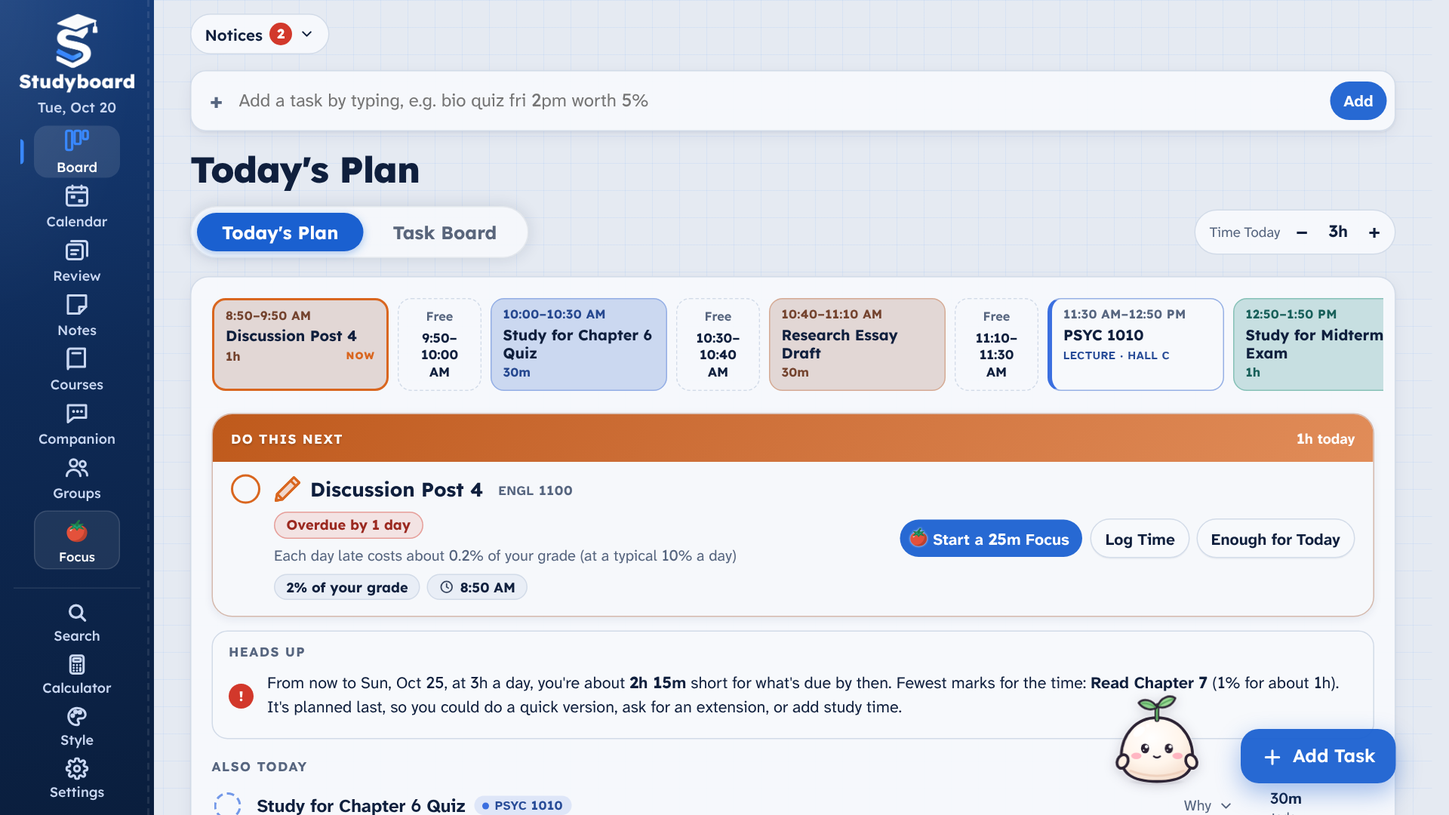
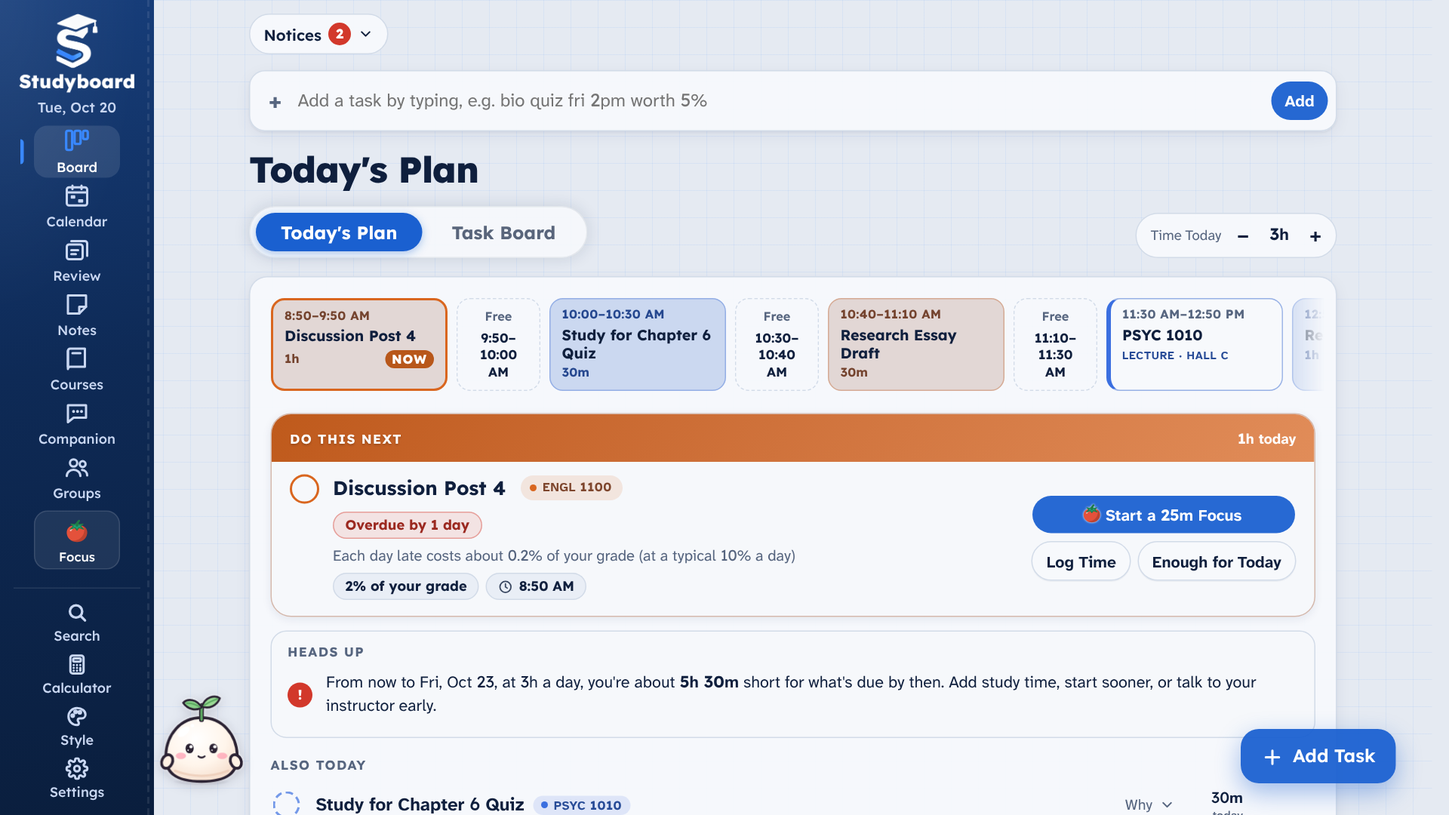
Store screenshots: refresh all, add Whiteboards, Concept Maps, Writing Studio and Calculator
The Microsoft Store takes at most 10 desktop screenshots, so the upload set is now the
banner and nine app screens (Today, Task Board, Timeline, Notes, Whiteboards, Concept
Maps, Writing Studio, Calculator, Grades), each in its own theme. Schedule, Crunch,
Courses and Companion are refreshed as alternates in screenshots/alternates/.

The capture script seeds an Anatomy whiteboard, a Cardiovascular System concept map
(its video box's picture drawn locally), an APA essay draft with citations to fix,
and a Nernst-equation result on the calculator. Only the local server is reached.
The midterm moves to Friday afternoon to match the banner. Screen names given on the
command line now pick screens instead of being read as the output folder.

Claude-Session: https://claude.ai/code/session_01GobWpRCJFTdqBS2MUP449u

diff --git a/tools/capture-store-screens.js b/tools/capture-store-screens.js
@@ -1,9 +1,12 @@
-// node tools/capture-store-screens.js [outDir]
-// Microsoft Store listing screenshots: a 3840x2160 banner (tools/store-banner.html), then nine app screens at 1920x1080,
-// each in its own theme, with the app tour's sample semester on Tuesday, Oct 20 (no AI key, nothing sent anywhere).
+// node tools/capture-store-screens.js [outDir] [names...]   e.g. node tools/capture-store-screens.js 05-whiteboards crunch 00-banner
+// Microsoft Store listing screenshots (the Store takes at most 10): a 3840x2160 banner (tools/store-banner.html), then nine app screens
+// at 1920x1080, each in its own theme, with the app tour's sample semester on Tuesday, Oct 20 (no AI key, nothing sent anywhere),
+// and four alternates (alternates/) to swap in for any of them.
 const http = require("http"), fs = require("fs"), path = require("path");
 const {chromium, executablePath} = require("../tests/pw");
-const root = path.join(__dirname, ".."), OUT = process.argv[2] || path.join(root, "build-resources/msstore-listing/screenshots");
+// an argument that names a screen (or 00-banner) picks it; any other is the folder to save into
+const ARGS = process.argv.slice(2), isName = a => a === "00-banner" || /^(\d\d-[a-z-]+|schedule|crunch|courses|companion)$/.test(a);
+const root = path.join(__dirname, ".."), OUT = ARGS.find(a => a && !isName(a)) || path.join(root, "build-resources/msstore-listing/screenshots");
 fs.mkdirSync(OUT, {recursive: true});
 const MIME = {".html": "text/html", ".js": "text/javascript", ".json": "application/json", ".png": "image/png", ".css": "text/css", ".svg": "image/svg+xml", ".woff2": "font/woff2", ".webp": "image/webp", ".jpg": "image/jpeg", ".webmanifest": "application/manifest+json"};
 const server = http.createServer((q, r) => { let p = decodeURIComponent(new URL(q.url, "http://x").pathname); if (p === "/") p = "/index.html"; if (p.endsWith("/")) p += "index.html"; const f = path.join(root, p);
@@ -25,7 +28,8 @@ const SEED = {v: 2,
     {id: "demo-eng", name: "Academic Writing", code: "ENGL 1100", color: "#D9661F", meetings: [{id: "m4", kind: "Seminar", days: [5], start: "10:00", end: "11:50", where: "Room 214"}]}],
   tasks: [
     T("t1", "Research Essay Draft", "eng", "Assignment", D(2), {time: "23:59", weight: 20, pct: 40, status: "doing", hours: 4, checklist: [{id: "a", text: "Outline", done: true}, {id: "b", text: "Find 5 sources", done: true}, {id: "c", text: "Write body", done: false}]}),
-    T("t2", "Midterm Exam", "bio", "Exam", D(5), {time: "09:30", weight: 30, hours: 6, location: "SW1 1020"}),
+    // the midterm on Friday afternoon (the banner says "Midterm Friday!")
+    T("t2", "Midterm Exam", "bio", "Exam", D(3), {time: "13:30", weight: 30, hours: 6, location: "SW1 1020"}),
     T("t3", "Chapter 6 Quiz", "psy", "Quiz", D(1), {time: "23:00", weight: 5, hours: 1}),
     T("t4", "Lab Report: Heart Rate", "bio", "Lab", D(8), {weight: 10, hours: 3}),
     T("t5", "Read Chapter 7", "psy", "Reading", D(3), {hours: 1}),
@@ -45,17 +49,147 @@ const SEED = {v: 2,
     {id: "demo-d2", name: "Memory and Learning", courseId: "demo-psy", cards: [{id: "k5", front: "Encoding", back: "Getting information into memory"}, {id: "k6", front: "Retrieval", back: "Getting it back out"}], quizzes: [], aiQuizzes: []}],
   files: [], settings: {capacity: 15, dailyHours: 3}, updated: 1};
 
-// file name, theme, light/dark, how to get there
+/* Whiteboard: an Anatomy board drawn as the app saves it (strokes packed like 99-whiteboard.js enc(), typed text as items) */
+const WB = (() => {
+  const AL = "ABCDEFGHIJKLMNOPQRSTUVWXYZabcdefghijklmnopqrstuvwxyz0123456789-_";
+  const enc = pts => { let s = "", px = 0, py = 0; const put = v => { v = v < 0 ? -v * 2 - 1 : v * 2; while (v >= 32) { s += AL[32 + (v % 32)]; v = Math.floor(v / 32); } s += AL[v]; };
+    pts.forEach(([x, y]) => { const X = Math.round(x * 4), Y = Math.round(y * 4); put(X - px); put(Y - py); px = X; py = Y; }); return s; };
+  // a steady hand: a slow wobble, the same every run
+  let seed = 7; const rnd = () => (seed = (seed * 16807) % 2147483647) / 2147483647;
+  const wob = (pts, amt) => { const ph = rnd() * 6, f = 0.004 + rnd() * 0.004; let L = 0; return pts.map((p, i) => { if (i) L += Math.hypot(p[0] - pts[i - 1][0], p[1] - pts[i - 1][1]); return [p[0] + Math.sin(L * f + ph) * amt, p[1] + Math.cos(L * f * 1.3 + ph) * amt]; }); };
+  const line = (a, b, n) => { const o = []; n = n || Math.max(2, Math.ceil(Math.hypot(b[0] - a[0], b[1] - a[1]) / 14)); for (let i = 0; i <= n; i++) o.push([a[0] + (b[0] - a[0]) * i / n, a[1] + (b[1] - a[1]) * i / n]); return o; };
+  const quad = (a, c, b) => { const o = []; for (let i = 0; i <= 40; i++) { const t = i / 40, u = 1 - t; o.push([u * u * a[0] + 2 * u * t * c[0] + t * t * b[0], u * u * a[1] + 2 * u * t * c[1] + t * t * b[1]]); } return o; };
+  const S = [], I = []; let n = 0;
+  const pen = (c, w, pts, amt) => S.push({id: "wbs" + (++n), t: "pen", c, w: w * 10, d: enc(wob(pts, amt == null ? 3 : amt)), at: now});
+  const hl = (c, w, pts) => S.push({id: "wbs" + (++n), t: "hl", c, w: w * 10, d: enc(wob(pts, 2)), at: now});
+  const text = (x, y, s, c, f, ff) => I.push({id: "wbt" + (++n), k: "t", x, y, s, c, f, ff: ff || "neat", at: now});
+  // an arrow: a gentle curve, then its head drawn as one more stroke
+  const arrow = (c, w, a, b, bend) => { const m = [(a[0] + b[0]) / 2 + (bend || 0) * (b[1] - a[1]) / 4, (a[1] + b[1]) / 2 - (bend || 0) * (b[0] - a[0]) / 4], body = quad(a, m, b);
+    pen(c, w, body, 2); const p = body[body.length - 4], an = Math.atan2(b[1] - p[1], b[0] - p[0]), h = 46;
+    pen(c, w, [[b[0] - h * Math.cos(an - 0.5), b[1] - h * Math.sin(an - 0.5)], b, [b[0] - h * Math.cos(an + 0.5), b[1] - h * Math.sin(an + 0.5)]], 0); };
+  // the heart: the classic heart curve, tipped like the real one, with its septum and the line between atria and ventricles
+  const cx = 1300, cy = 1300, k = 26, tilt = -0.2;
+  const rot = ([x, y]) => [cx + x * Math.cos(tilt) - y * Math.sin(tilt), cy + x * Math.sin(tilt) + y * Math.cos(tilt)];
+  const heart = t => [16 * Math.pow(Math.sin(t), 3) * k, -(13 * Math.cos(t) - 5 * Math.cos(2 * t) - 2 * Math.cos(3 * t) - Math.cos(4 * t)) * k];
+  const outline = []; for (let i = 0; i <= 160; i++) outline.push(rot(heart(i / 160 * Math.PI * 2)));
+  pen("red", 12, outline, 4);
+  pen("red", 9, quad(rot([0, -5 * k]), rot([2 * k, 6 * k]), rot([0, 16.2 * k])), 3);
+  const across = y => { const pts = []; for (let i = 0; i <= 160; i++) pts.push(heart(i / 160 * Math.PI * 2));
+    const xs = []; pts.forEach((p, i) => { const q = pts[(i + 1) % pts.length]; if ((p[1] - y) * (q[1] - y) <= 0 && p[1] !== q[1]) xs.push(p[0] + (q[0] - p[0]) * (y - p[1]) / (q[1] - p[1])); }); return [Math.min(...xs), Math.max(...xs)]; };
+  const [l0, r0] = across(1 * k); pen("red", 9, quad(rot([l0 + 6, 1 * k]), rot([0, 3 * k]), rot([r0 - 6, 1 * k])), 2);
+  // chambers
+  text(cx - 300, cy - 180, "RA", "blue", 110, "marker"); text(cx + 90, cy - 290, "LA", "red", 110, "marker");
+  text(cx - 210, cy + 90, "RV", "blue", 110, "marker"); text(cx + 110, cy + 10, "LV", "red", 110, "marker");
+  // the lungs, the body and the vessels between them
+  pen("green", 10, (() => { const o = []; for (let i = 0; i <= 64; i++) { const a = i / 64 * Math.PI * 2; o.push([cx - 30 + Math.cos(a) * 280, cy - 600 + Math.sin(a) * 105]); } return o; })(), 4);
+  text(cx - 160, cy - 660, "LUNGS", "green", 92, "marker");
+  arrow("blue", 10, [cx - 330, cy - 300], [cx - 230, cy - 500], 0.25); text(cx - 720, cy - 540, "pulmonary\nartery", "blue", 72, "quick");
+  arrow("red", 10, [cx + 170, cy - 500], [cx + 210, cy - 330], 0.3); text(cx + 290, cy - 560, "pulmonary\nveins", "red", 72, "quick");
+  arrow("blue", 10, [cx - 840, cy - 120], [cx - 470, cy - 110], -0.15); text(cx - 860, cy - 250, "vena cava", "blue", 72, "quick");
+  text(cx - 860, cy - 60, "(from the body)", "ink", 54, "quick");
+  arrow("red", 10, [cx + 420, cy + 10], [cx + 760, cy - 110], 0.2); text(cx + 520, cy - 230, "aorta", "red", 72, "quick"); text(cx + 560, cy + 60, "to the body", "ink", 54, "quick");
+  // title, underlined
+  text(cx - 860, cy - 950, "The Heart: How Blood Flows", "ink", 124, "marker");
+  pen("orange", 11, line([cx - 850, cy - 775], [cx + 1020, cy - 790]), 3);
+  // the valves, in a box
+  const vx = cx + 980, vy = cy - 600;
+  text(vx, vy, "4 valves, in order", "purple", 80, "hand");
+  text(vx, vy + 120, "1. Tricuspid   RA → RV\n2. Pulmonary  RV → lungs\n3. Mitral         LA → LV\n4. Aortic         LV → body", "ink", 62, "neat");
+  pen("purple", 8, [[vx - 40, vy - 30], [vx + 760, vy - 36], [vx + 766, vy + 470], [vx - 34, vy + 476], [vx - 40, vy - 30]], 2);
+  // a highlighted note and a key
+  text(vx - 20, vy + 600, "LV wall is the thickest:\nit pumps to the whole body!", "ink", 66, "hand");
+  hl("yellow", 56, line([vx - 20, vy + 652], [vx + 620, vy + 652]));
+  hl("yellow", 56, line([vx - 20, vy + 738], [vx + 700, vy + 738]));
+  pen("blue", 14, line([vx, vy + 900], [vx + 130, vy + 900]), 1); text(vx + 160, vy + 860, "low O₂", "ink", 62, "neat");
+  pen("red", 14, line([vx + 400, vy + 900], [vx + 530, vy + 900]), 1); text(vx + 560, vy + 860, "high O₂", "ink", 62, "neat");
+  // a reminder in a box, with a star
+  text(cx - 840, cy + 300, "Midterm Friday!\nRA → RV → lungs\n→ LA → LV → aorta", "orange", 66, "fun");
+  pen("orange", 8, [[cx - 880, cy + 270], [cx - 270, cy + 264], [cx - 266, cy + 560], [cx - 876, cy + 566], [cx - 880, cy + 270]], 2);
+  const star = []; for (let i = 0; i <= 10; i++) { const a = -Math.PI / 2 + i * Math.PI / 5, r = i % 2 ? 28 : 66; star.push([cx - 170 + Math.cos(a) * r, cy + 330 + Math.sin(a) * r]); } pen("orange", 8, star, 1);
+  return {wbInk: S, wbItems: I};
+})();
+
+/* Writing Studio: the research essay in APA, with a draft that has a few things to fix */
+const WS_SRC = [
+  {id: "s1", type: "book", title: "Why we sleep: Unlocking the power of sleep and dreams", author: [{family: "Walker", given: "Matthew"}], issued: {"date-parts": [[2017]]}, publisher: "Scribner"},
+  {id: "s2", type: "article-journal", title: "Sleep deprivation in adolescents and adults: Changes in the sleep and circadian rhythms", author: [{family: "Carskadon", given: "Mary A."}], issued: {"date-parts": [[2011]]}, "container-title": "Pediatric Clinics of North America", volume: "58", issue: "3", page: "637–647", DOI: "10.1016/j.pcl.2011.03.003"},
+  {id: "s3", type: "article-journal", title: "Screen time and sleep among school-aged children and adolescents: A systematic literature review", author: [{family: "Hale", given: "Lauren"}, {family: "Guan", given: "Stanford"}], issued: {"date-parts": [[2015]]}, "container-title": "Sleep Medicine Reviews", volume: "21", page: "50–58", DOI: "10.1016/j.smrv.2014.07.007"},
+  {id: "s4", type: "article-journal", title: "The association between social media use and sleep disturbance among young adults", author: [{family: "Levenson", given: "Jessica C."}, {family: "Shensa", given: "Ariel"}, {family: "Sidani", given: "Jaime E."}, {family: "Colditz", given: "Jason B."}, {family: "Primack", given: "Brian A."}], issued: {"date-parts": [[2016]]}, "container-title": "Preventive Medicine", volume: "85", page: "36–41", DOI: "10.1016/j.ypmed.2016.01.001"},
+  {id: "s5", type: "article-journal", title: "Evening use of light-emitting eReaders negatively affects sleep, circadian timing, and next-morning alertness", author: [{family: "Chang", given: "Anne-Marie"}, {family: "Aeschbach", given: "Daniel"}, {family: "Duffy", given: "Jeanne F."}, {family: "Czeisler", given: "Charles A."}], issued: {"date-parts": [[2015]]}, "container-title": "Proceedings of the National Academy of Sciences", volume: "112", issue: "4", page: "1232–1237", DOI: "10.1073/pnas.1418490112"}];
+const WS_DRAFT = `Screens, Sleep and the First-Year Student
+
+Most first-year students go to bed with a phone in hand, and their sleep pays for it. Teenagers' body clocks already shift later in adolescence (Carskadon, 2011), so a late night of scrolling pushes bedtime even further back. A review of 67 studies found that screen time was linked to later bedtimes and shorter sleep in 90% of them (Hale & Guan 2015).
+
+The light itself matters. Reading on a tablet before bed delayed melatonin and left readers less alert the next morning (Chang et al., 2015, p. 1233). Young adults who checked social media most often were also the most likely to report disturbed sleep (Levenson et al, 2016). Walker (2017) argues that "sleep is the single most effective thing we can do to reset our brain and body health each day" (p. 107).
+
+Students who protect their sleep do better in class (Hershner & Chervin, 2014). Hale and Guan (2015) suggest a simple rule: screens off an hour before bed.
+
+References
+Carskadon, M. A. (2011). Sleep deprivation in adolescents and adults: Changes in the sleep and circadian rhythms. Pediatric Clinics of North America, 58(3), 637–647. https://doi.org/10.1016/j.pcl.2011.03.003
+Chang, A.-M., Aeschbach, D., Duffy, J. F., & Czeisler, C. A. (2015). Evening use of light-emitting eReaders negatively affects sleep, circadian timing, and next-morning alertness. Proceedings of the National Academy of Sciences, 112(4), 1232–1237. https://doi.org/10.1073/pnas.1418490112
+Hale, L., & Guan, S. (2015). Screen time and sleep among school-aged children and adolescents: A systematic literature review. Sleep Medicine Reviews, 21, 50–58. https://doi.org/10.1016/j.smrv.2014.07.007
+Hershner, S. D., & Chervin, R. D. (2014). Causes and consequences of sleepiness among college students. Nature and Science of Sleep, 6, 73–84. https://doi.org/10.2147/NSS.S62907
+Levenson, J. C., Shensa, A., Sidani, J. E., Colditz, J. B., & Primack, B. A. (2016). The association between social media use and sleep disturbance among young adults. Preventive Medicine, 85, 36–41. https://doi.org/10.1016/j.ypmed.2016.01.001
+Walker, M. (2017). Why we sleep: Unlocking the power of sleep and dreams. Scribner.`;
+
+// what doi.org answers for the one entry in the draft's list that isn't a source yet (answered here, not fetched)
+const DOI_CSL = {DOI: "10.2147/NSS.S62907", type: "journal-article", title: "Causes and consequences of sleepiness among college students", "container-title": "Nature and Science of Sleep", volume: "6", page: "73-84", author: [{given: "Sara D.", family: "Hershner"}, {given: "Ronald D.", family: "Chervin"}], issued: {"date-parts": [[2014]]}};
+
+/* Concept map: the cardiovascular system for Anatomy, with styled boxes and a video box */
+// the blood's loop around the outside (right heart, lungs, left heart, body), the heart in the middle
+const CM_POS = {root: [0, -150], "idea:heart": [0, 40], "idea:valves": [0, 210], "idea:ra": [-640, 60], "idea:rv": [-500, -220], "idea:lungs": [0, -360], "idea:la": [500, -220], "idea:lv": [640, 60],
+  "idea:aorta": [500, 300], "idea:arteries": [190, 400], "idea:caps": [-190, 400], "idea:veins": [-500, 300], "idea:co": [960, -160], "idea:vid": [960, 250]};
+const CM_MAP = {id: "cm-cv", name: "Cardiovascular System", auto: false, created: now - 5 * 864e5, at: now - 3600e3, pack: "med",
+  add: [{id: "heart", label: "Heart"}, {id: "ra", label: "Right atrium"}, {id: "rv", label: "Right ventricle"}, {id: "lungs", label: "Lungs"}, {id: "la", label: "Left atrium"}, {id: "lv", label: "Left ventricle"},
+    {id: "aorta", label: "Aorta"}, {id: "arteries", label: "Arteries"}, {id: "caps", label: "Capillaries"}, {id: "veins", label: "Veins"}, {id: "valves", label: "4 valves"}, {id: "co", label: "Cardiac output = HR × SV"},
+    {id: "vid", label: "", emb: {p: "youtube", u: "https://www.youtube.com/watch?v=sbStoreDemo1", e: "https://www.youtube-nocookie.com/embed/sbStoreDemo1?rel=0", th: "https://i.ytimg.com/vi/sbStoreDemo1/hqdefault.jpg"}}],
+  links: [{a: "root", b: "idea:heart", label: "pumped by"}, {a: "idea:heart", b: "idea:valves", label: "keeps blood one-way with"}, {a: "idea:ra", b: "idea:rv", label: "tricuspid valve"}, {a: "idea:rv", b: "idea:lungs", label: "pulmonary artery"},
+    {a: "idea:lungs", b: "idea:la", label: "pulmonary veins"}, {a: "idea:la", b: "idea:lv", label: "mitral valve"}, {a: "idea:lv", b: "idea:aorta", label: "aortic valve"}, {a: "idea:aorta", b: "idea:arteries", label: "branches into"},
+    {a: "idea:arteries", b: "idea:caps", label: "exchange O₂"}, {a: "idea:caps", b: "idea:veins", label: "collect into"}, {a: "idea:veins", b: "idea:ra", label: "vena cava"},
+    {a: "idea:lv", b: "idea:co", label: "sets"}, {a: "idea:vid", b: "idea:lv", label: "watch"}],
+  pos: Object.fromEntries(Object.entries(CM_POS).map(([k, [x, y]]) => [k, [Math.round(x * 0.8), Math.round(y * 0.78)]])),
+  styles: {root: {shape: "pill", color: "#C8102E", scale: 1.3}, "idea:heart": {shape: "circle", color: "#C8102E", scale: 1.25}, "idea:lungs": {shape: "cloud", color: "#2E8A52"}, "idea:co": {shape: "rounded", color: "#7A3CC8"}, "idea:valves": {shape: "hexagon", color: "#E57A10"},
+    "idea:ra": {color: "#1D5BD6"}, "idea:rv": {color: "#1D5BD6"}, "idea:veins": {color: "#1D5BD6"}, "idea:la": {color: "#C8102E"}, "idea:lv": {color: "#C8102E"}, "idea:aorta": {color: "#C8102E"}, "idea:arteries": {color: "#C8102E"}}};
+
+/* Each screen: [file, theme, light/dark, how to get there, extra (seed: change the semester, setup: after getting there, dir: "alternates")]
+   The Microsoft Store takes at most 10 desktop screenshots: the banner and the nine below; the four after them are alternates. */
 const SHOTS = [
   ["01-today", "classic", "light", ["Board", "Today's Plan"]],
   ["02-taskboard", "sakura", "light", ["Board", "Task Board"]],
   ["03-timeline", "galaxy", "dark", ["Calendar", "Due Dates", "Timeline", "Term"]],
-  ["04-schedule", "ocean", "light", ["Calendar", "Schedule"]],
-  ["05-crunch", "arctic", "dark", ["Calendar", "Crunch"]],
-  ["06-notes", "spring", "light", ["Notes"]],
-  ["07-grades", "arcade", "dark", ["Courses", "Grades"]],
-  ["08-courses", "classic", "light", ["Courses", "Courses"]],
-  ["09-companion", "forest", "light", ["Companion"]]];
+  ["04-notes", "spring", "light", ["Notes", "Notes"], {seed: s => s.notes.push(
+    {id: "demo-n4", text: "Ch. 7: encoding → storage → retrieval", created: now - 3000, courseId: "demo-psy", color: "green", x: 40, y: 70, rot: 2, pin: "tape", stickers: [{k: "brain", x: 82, y: 78, r: -8}]},
+    {id: "demo-n5", text: "Lab Thursday 1:30: lab coat and goggles", created: now - 4000, courseId: "demo-bio", color: "orange", x: 150, y: 330, rot: -3, pin: "pin", stickers: [{k: "flask", x: 84, y: 78, r: 10}]})}],
+  ["05-whiteboards", "candy", "light", ["Notes", "Whiteboard"], {
+    seed: s => { s.notes.push(Object.assign({id: "demo-wb1", text: "Heart: Blood Flow", wb: {v: 1, tpl: "blank", pa: 1.6}, courseId: "demo-bio", board: "", created: now - 2 * 864e5, updated: now - 3600e3}, WB)); },
+    setup: async page => { await page.click('[data-wb="fit"]'); await page.waitForTimeout(600);
+      // move the drawing down a little, clear of the zoom buttons (with the Move tool, as a person would), then back to the marker
+      await page.click('.wb-tray [data-wb="tool"][data-id="hand"]'); const r = await page.locator(".wb-frame").boundingBox();
+      await page.mouse.move(r.x + r.width / 2, r.y + r.height / 2); await page.mouse.down(); await page.mouse.move(r.x + r.width / 2, r.y + r.height / 2 + 22, {steps: 8}); await page.mouse.up();
+      await page.click('.wb-tray [data-wb="tool"][data-id="pen"]'); await page.mouse.move(1270, 700); await page.evaluate(() => document.activeElement && document.activeElement.blur()); await page.waitForTimeout(400); }}],
+  ["06-concept-maps", "neon", "dark", ["Review"], {
+    seed: s => { s.courses[0].maps = [CM_MAP]; },
+    setup: async page => { await page.click('[data-act="rv-view"][data-id="maps"]'); await page.waitForTimeout(800);
+      await page.evaluate(() => { const b = document.createElement("button"); b.dataset.act = "cm-open"; b.dataset.id = "demo-bio"; b.dataset.kind = "course"; b.dataset.map = "cm-cv"; b.style.display = "none"; document.body.appendChild(b); b.click(); b.remove(); });
+      await page.waitForSelector('.cm-node[data-n="idea:vid"] image.cm-emb-th', {timeout: 10000}).catch(() => console.warn("  the video box has no picture")); await page.waitForTimeout(1200); }}],
+  ["07-writing-studio", "reading", "light", ["Board", "Task Board"], {
+    seed: s => { const t = s.tasks.find(x => x.id === "demo-t1"); t.title = "Research Essay: Screens and Sleep"; t.notes = "APA 7th edition. 1,200–1,500 words, at least 5 peer-reviewed sources.";
+      t.ws = {style: "apa", src: WS_SRC, q: [], out: [], draft: {t: WS_DRAFT, from: "Pasted", at: now - 3 * 3600e3}}; },
+    setup: async page => { await page.evaluate(() => { const b = document.createElement("button"); b.dataset.act = "ws-open"; b.dataset.id = "demo-t1"; b.dataset.wsTo = "check"; b.style.display = "none"; document.body.appendChild(b); b.click(); b.remove(); });
+      await page.waitForSelector("#dlg[open] .ws-tab", {timeout: 15000}); await page.waitForTimeout(1500);
+      await page.locator("#dlg[open] button", {hasText: /^Check( Again)?$/}).last().click(); await page.waitForSelector("#dlg[open] .ws-diff", {timeout: 15000}).catch(() => console.warn("  the check didn't run"));
+      await page.waitForTimeout(2500);
+      // start the view at what the check just did (the draft's card is above it)
+      await page.evaluate(() => { const m = [...document.querySelectorAll("#dlg[open] .ws-body *")].find(e => /^Added \d+ source/.test(e.textContent.trim()) && e.children.length < 3); if (m) { m.scrollIntoView({block: "start"}); } });
+      await page.waitForTimeout(500); }, zoom: 1.25}],
+  ["08-calculator", "cafe", "light", ["Board", "Today's Plan"], {
+    // the resting potential of a nerve cell from the Nernst equation (K+ 5 mM outside, 140 mM inside), with the calculator moved to the right
+    setup: async page => { await page.evaluate(async () => { SBCALC.open(); SBCALC.put("61.5*log(5/140)"); await SBCALC.press("eq"); const w = SBCALC.win(); w.style.left = (innerWidth - w.offsetWidth - 36) + "px"; w.style.top = (innerHeight - w.offsetHeight - 20) + "px"; }); await page.waitForTimeout(800); }}],
+  ["09-grades", "arcade", "dark", ["Courses", "Grades"]],
+  ["schedule", "ocean", "light", ["Calendar", "Schedule"], {dir: "alternates"}],
+  ["crunch", "arctic", "dark", ["Calendar", "Crunch"], {dir: "alternates"}],
+  ["courses", "sunset", "light", ["Courses", "Courses"], {dir: "alternates"}],
+  ["companion", "forest", "light", ["Companion", "Wardrobe"], {dir: "alternates", setup: async page => { await page.locator("button", {hasText: "Cozy Scarf"}).first().click().catch(() => console.warn("  no scarf")); await page.waitForTimeout(800); }}]];
 
 const dismiss = async page => {
   for (let i = 0; i < 4; i++) {
@@ -82,10 +216,23 @@ const go = async (page, labels) => {
   }
 };
 
-async function shoot(browser, [name, skin, scheme, path_]) {
-  const ctx = await browser.newContext({viewport: {width: 1280, height: 720}, colorScheme: scheme, deviceScaleFactor: 1.5, serviceWorkers: "block"});
+// a picture for the video box (the map's YouTube link is a made-up one, and nothing is fetched from YouTube: its oEmbed answer and thumbnail are drawn here)
+const VIDEO_PIC = `<svg xmlns="http://www.w3.org/2000/svg" width="480" height="360" viewBox="0 0 480 360"><defs><linearGradient id="g" x1="0" y1="0" x2="1" y2="1"><stop offset="0" stop-color="#FFE9EC"/><stop offset="1" stop-color="#FFC9D1"/></linearGradient></defs>
+  <rect width="480" height="360" fill="url(#g)"/><path d="M240 300C150 240 90 190 90 130c0-40 30-70 70-70 34 0 58 20 80 48 22-28 46-48 80-48 40 0 70 30 70 70 0 60-60 110-150 170z" fill="#E0394E"/>
+  <path d="M120 170h70l20-44 30 92 24-62 16 14h80" fill="none" stroke="#fff" stroke-width="10" stroke-linecap="round" stroke-linejoin="round"/></svg>`;
+async function shoot(browser, [name, skin, scheme, path_, o]) {
+  o = o || {};
+  // 1920x1080: 1280x720 at 1.5x, or (zoom: 1.25) 1536x864 at 1.25x for a screen with more to show
+  const z = o.zoom || 1.5;
+  const ctx = await browser.newContext({viewport: {width: Math.round(1920 / z), height: Math.round(1080 / z)}, colorScheme: scheme, deviceScaleFactor: z, serviceWorkers: "block"});
   await ctx.clock.setFixedTime(NOW);
+  // nothing leaves the machine: only the local server answers, and the video box's oEmbed and picture are drawn here
+  await ctx.route(/youtube\.com\/oembed/, r => r.fulfill({status: 200, contentType: "application/json", headers: {"access-control-allow-origin": "*"}, body: JSON.stringify({title: "Blood Flow in 3 Minutes", thumbnail_url: "https://i.ytimg.com/vi/sbStoreDemo1/hqdefault.jpg"})}));
+  await ctx.route(/doi\.org\/10\.2147/, r => r.fulfill({status: 200, contentType: "application/json", headers: {"access-control-allow-origin": "*"}, body: JSON.stringify(DOI_CSL)}));
+  await ctx.route(/i\.ytimg\.com/, r => r.fulfill({status: 200, contentType: "image/svg+xml", body: VIDEO_PIC}));
+  await ctx.route(u => !/^(http:\/\/localhost|data:|blob:)/.test(String(u)) && !/youtube\.com\/oembed|i\.ytimg\.com|doi\.org\/10\.2147/.test(String(u)), r => r.abort());
   const seed = JSON.parse(JSON.stringify(SEED)); seed.settings.style = {skin}; seed.settings.owned = ["skin:" + skin];
+  if (o.seed) o.seed(seed);
   await ctx.addInitScript(([seed, scheme]) => { try { if (!localStorage.getItem("coursework:v2")) {
     localStorage.setItem("coursework:v2", JSON.stringify(seed)); localStorage.setItem("studioso:sb", '"local"'); localStorage.setItem("sb:onboarded", "1"); localStorage.setItem("studyboard:tour", "1"); localStorage.setItem("studioso:theme", scheme); localStorage.setItem("studyboard:tips", "off"); } } catch (e) {} }, [seed, scheme]);
   const page = await ctx.newPage();
@@ -94,9 +241,12 @@ async function shoot(browser, [name, skin, scheme, path_]) {
   await dismiss(page);
   await go(page, path_);
   await dismiss(page);
-  await page.evaluate(() => document.querySelectorAll(".cp-bubble.on").forEach(x => x.classList.remove("on")));
+  if (o.setup) await o.setup(page);
+  await page.evaluate(() => { document.querySelectorAll(".cp-bubble.on").forEach(x => x.classList.remove("on")); const a = document.activeElement; if (a && a !== document.body && !a.closest("dialog")) a.blur(); });
+  await page.evaluate(() => document.fonts.ready);
   await page.waitForTimeout(1500);
-  await page.screenshot({path: path.join(OUT, name + ".png")}); console.log("saved", name + ".png");
+  const dir = o.dir ? path.join(OUT, o.dir) : OUT; fs.mkdirSync(dir, {recursive: true});
+  await page.screenshot({path: path.join(dir, name + ".png")}); console.log("saved", (o.dir ? o.dir + "/" : "") + name + ".png");
   await ctx.close();
 }
 // The banner: tools/store-banner.html with the new Today screenshot, the app's Packy and two of its stickers, at 4K
@@ -127,7 +277,7 @@ async function banner(browser) {
 
 (async () => {
   await new Promise(r => server.listen(0, r)); const browser = await chromium.launch({executablePath});
-  const only = process.argv.slice(3);
+  const only = ARGS.filter(isName);
   try { for (const s of SHOTS) if (!only.length || only.includes(s[0])) await shoot(browser, s); if (!only.length || only.includes("00-banner")) await banner(browser); }
   finally { await browser.close(); server.close(); }
   console.log("done:", OUT);

diff --git a/MICROSOFT-STORE.md b/MICROSOFT-STORE.md
@@ -75,7 +75,24 @@ Quick Capture is switched off for now (`CAPTURE_OFF`), so the text below leaves 
   > Optional AI features (Google Gemini, Anthropic Claude or OpenAI ChatGPT) use your own API key: they summarize files, answer questions about your own notes, plan your day and make flashcards. AI answers are written by the model you choose from what you send it, can be wrong, and can be reported from the answer itself or in Settings, AI Features. Studyboard Pro is an optional subscription bought on the Studyboard website.
 
 * Features (short lines): Task board and Today's Plan · Courses, grades and syllabus import · Flashcards and practice quizzes · Study groups and shared decks · Brightspace, Canvas and Blackboard sync (read-only) · Reminders, tray icon and a Today widget · Optional AI with your own key.
-* **Screenshots:** `build-resources/msstore-listing/screenshots/`, numbered in upload order: `00-banner.png` (3840×2160) and nine 1920×1080 app screens, each in its own theme (Classic, Sakura, Galaxy, Ocean Waves, Northern Lights, Spring, Synthwave, Classic, Evergreen) with the app tour's sample semester. After the app's look changes, run `node tools/capture-store-screens.js` to make them all again (add file names such as `03-timeline` to redo only those). The banner's layout is `tools/store-banner.html`.
+* **Screenshots:** the Store takes at most **10 desktop screenshots**, so the upload set is the banner and nine app screens, in `build-resources/msstore-listing/screenshots/`, numbered in upload order. All are 1920×1080 except the banner (3840×2160), each in its own theme, with the app tour's sample semester on Tuesday, Oct 20:
+
+  | File | Screen | Theme |
+  |---|---|---|
+  | `00-banner.png` | Banner (`tools/store-banner.html`, made from `01-today.png`) | — |
+  | `01-today.png` | Board > Today's Plan | Classic (light) |
+  | `02-taskboard.png` | Board > Task Board | Sakura (light) |
+  | `03-timeline.png` | Calendar > Due Dates, Timeline, Term | Galaxy (dark) |
+  | `04-notes.png` | Notes > Notes (the cork board) | Spring (light) |
+  | `05-whiteboards.png` | Notes > Whiteboard: an Anatomy diagram of blood flow through the heart | Candy Land (light) |
+  | `06-concept-maps.png` | Review > Concept Maps: the Cardiovascular System map, Medicine & Nursing map style, with a video box | Neon Dusk (dark) |
+  | `07-writing-studio.png` | Writing Studio on the Check tab: the research essay in APA, with two citations to fix | Reading Nook (light) |
+  | `08-calculator.png` | The calculator over Today's Plan (the Nernst equation for a nerve cell) | Cozy Café (light) |
+  | `09-grades.png` | Courses > Grades | Synthwave (dark) |
+
+  Four more screens, each in a theme of its own, are in `screenshots/alternates/` to swap in for any of the nine (keep the upload at 10): `schedule.png` (Calendar > Schedule, Ocean Waves), `crunch.png` (Calendar > Crunch, Northern Lights, dark), `courses.png` (Courses > Courses, Sunset Beach) and `companion.png` (Companion, Evergreen).
+
+  After the app's look changes, run `node tools/capture-store-screens.js` to make them all again (add names such as `03-timeline` or `crunch` to redo only those, and `00-banner` for the banner). Nothing is sent anywhere: there's no AI key, and the video box's picture and the one DOI lookup are answered by the script itself.
 * **Store logos:** `build-resources/msstore-listing/BoxArt-1080x1080.png` (1:1), `Poster-720x1080.png` (2:3) and `Logo-300x300.png`.
 
 **Notes for certification** (paste into the submission's notes field):
